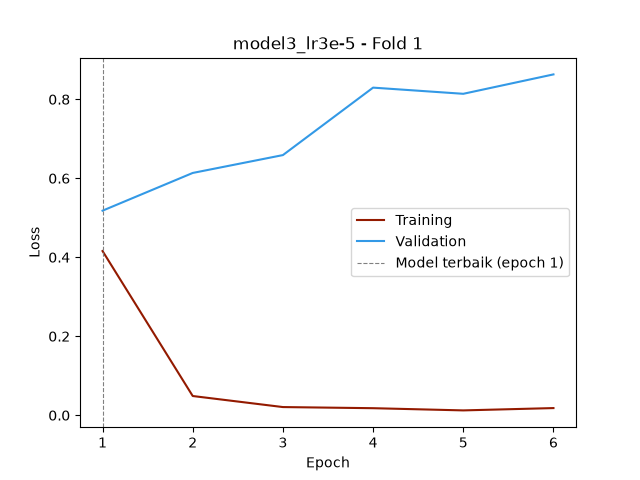
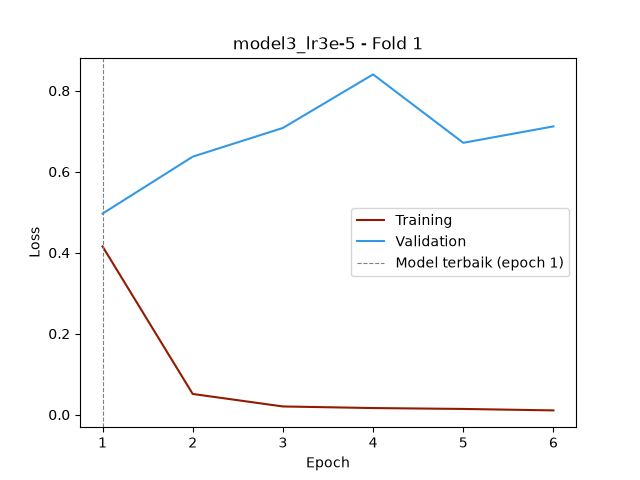
Perbaikan preprocessing (INTER_AREA, filter gambar kembar) dan pengaturan final Model 3

diff --git a/Utils/getData.py b/Utils/getData.py
@@ -8,10 +8,48 @@ from torch.utils.data import Dataset
 # Urutan kelas (alfabetis, sama dengan urutan folder). Indeks di list ini = label kelas.
 CLASSES = ['Chickenpox', 'Cowpox', 'HFMD', 'Healthy', 'Measles', 'Monkeypox']
 
+# Pasangan gambar asli yang identik / hampir identik, tetapi tercatat dengan ID pasien berbeda
+# (hasil pemeriksaan dataset: file sama persis, atau skor template matching >= 0.989).
+# Karena fold dibagi berdasarkan ID pasien, kembaran ini bisa terpisah ke Train dan Valid/Test (bocor).
+# Saat memuat Train, gambar yang kembarannya ada di Valid/Test pada fold yang sama dilewati,
+# beserta semua versi augmented-nya. Valid dan Test tidak diubah.
+# Catatan: CHP_38_01 (Chickenpox) sangat mirip dengan MKP_20_01/MKP_20_02 (Monkeypox), belum dipastikan.
+TWINS = [
+    ('CHP_26_01', 'CHP_62_01'),          # file identik
+    ('HEALTHY_21_01', 'HEALTHY_77_01'),
+    ('HFMD_96_01', 'HFMD_130_01'),
+    ('CWP_31_01', 'CWP_02_01'),
+]
+
 
 def get_dataset_root():
     # Unduh dataset dari Kaggle (hanya sekali, berikutnya memakai cache)
     return kagglehub.dataset_download("joydippaul/mpox-skin-lesion-dataset-version-20-msld-v20")
+
+
+def resize_image(image, img_size):
+    # Mengecilkan (tinggi dan lebar >= img_size): INTER_AREA, merata-ratakan area piksel
+    # sehingga tidak muncul aliasing (tepi bergerigi). Membesarkan: INTER_LINEAR (bawaan OpenCV).
+    h, w = image.shape[:2]
+    interpolation = cv.INTER_AREA if (h >= img_size and w >= img_size) else cv.INTER_LINEAR
+    return cv.resize(image, (img_size, img_size), interpolation=interpolation)
+
+
+def get_twins_to_skip(root, fold):
+    # Nama gambar Train (tanpa ekstensi) yang kembarannya ada di Valid/Test pada fold ini
+    held_out = set()
+    for split in ['Valid', 'Test']:
+        for class_name in CLASSES:
+            folder = os.path.join(root, 'Original Images', 'Original Images', 'FOLDS', f'fold{fold}', split, class_name)
+            held_out.update(os.path.splitext(f)[0] for f in os.listdir(folder))
+
+    skip = set()
+    for a, b in TWINS:
+        if a in held_out:
+            skip.add(b)
+        if b in held_out:
+            skip.add(a)
+    return skip - held_out  # kalau keduanya di Valid/Test, tidak ada yang perlu dilewati dari Train
 
 
 class getImageLabel(Dataset):
@@ -34,12 +72,23 @@ class getImageLabel(Dataset):
         if split == 'Train':
             folders.append(os.path.join(root, 'Augmented Images', 'Augmented Images', 'FOLDS_AUG', f'fold{fold}_AUG', 'Train'))
 
-        for folder in folders:
+        # Gambar kembar yang dilewati (hanya untuk Train)
+        skip = get_twins_to_skip(root, fold) if split == 'Train' else set()
+        self.skipped_twins = sorted(skip)
+
+        for k, folder in enumerate(folders):
+            is_augmented = (k == 1)  # folders[0] = asli, folders[1] = augmented (hanya Train)
             for i, class_name in enumerate(CLASSES):
                 class_folder = os.path.join(folder, class_name)
                 for image_name in sorted(os.listdir(class_folder)):
                     # folder augmented sudah memuat salinan gambar asli (_ORIGINAL), lewati supaya tidak dobel
                     if '_ORIGINAL' in image_name:
+                        continue
+
+                    # nama gambar asli: 'CHP_26_01.jpg' -> 'CHP_26_01', augmented 'CHP_26_01_3.jpg' -> 'CHP_26_01'
+                    stem = os.path.splitext(image_name)[0]
+                    base_name = stem.rsplit('_', 1)[0] if is_augmented else stem
+                    if base_name in skip:
                         continue
 
                     image = cv.imread(os.path.join(class_folder, image_name))
@@ -48,10 +97,14 @@ class getImageLabel(Dataset):
 
                     # OpenCV membaca BGR, ubah ke RGB, lalu resize
                     image = cv.cvtColor(image, cv.COLOR_BGR2RGB)
-                    image = cv.resize(image, (img_size, img_size))
+                    image = resize_image(image, img_size)
 
                     # disimpan sebagai uint8 (0-255) supaya hemat memori, dinormalisasi di __getitem__
                     self.dataset.append([image, to_one_hot[i]])
+
+        if self.skipped_twins:
+            print(f"  [getData] {split} fold {fold}: {len(self.skipped_twins)} gambar kembar dilewati "
+                  f"(beserta versi augmented-nya): {', '.join(self.skipped_twins)}")
 
     def __getitem__(self, item):
         feature, label = self.dataset[item]
@@ -66,6 +119,11 @@ if __name__ == "__main__":
     # Uji cepat: python Utils/getData.py
     root = get_dataset_root()
     print("Lokasi dataset:", root)
+
+    # gambar kembar yang dilewati dari Train di setiap fold (tanpa membaca gambar)
+    for fold in range(1, 6):
+        skip = sorted(get_twins_to_skip(root, fold))
+        print(f"Fold {fold}: kembar yang dilewati dari Train = {', '.join(skip) if skip else '-'}")
 
     for split in ['Train', 'Valid', 'Test']:
         data = getImageLabel(fold=1, split=split, img_size=100, root=root)

diff --git a/config.py b/config.py
@@ -27,59 +27,16 @@ CONFIGS = {
 
     # Model 2: SimpleCNN dengan parameter berbeda (diisi anggota Model 2)
 
-    # Model 3: ConvNeXt-Tiny pretrained ImageNet (transfer learning)
+    # Model 3 (FINAL): ConvNeXt-Tiny pretrained ImageNet (transfer learning)
+    # Pengaturan = percobaan A (model3_lr3e-5), terbaik di Valid fold 1 di antara percobaan A-D.
     "model3": {
         "model": ConvNeXtTiny,
         "model_args": {"output": 6, "pretrained": True},
         "img_size": 224,      # ukuran input bawaan model pretrained ImageNet
         "batch_size": 16,     # lebih kecil dari Model 1 karena model besar, supaya muat di VRAM 8 GB
-        "epoch": 20,
-        "lr": 0.0001,         # 10x lebih kecil dari Model 1 supaya bobot pretrained tidak rusak dan tidak cepat overfitting
+        "epoch": 10,          # epoch terbaik di percobaan selalu 1-2, jadi 10 sudah lebih dari cukup
+        "lr": 0.00003,        # hasil percobaan: 0.0001 terlalu cepat menghafal, 0.00003 terbaik
         "patience": 5,        # early stopping jika valid loss tidak membaik 5 epoch berturut-turut
     },
 
-    # Percobaan A untuk Model 3: sama dengan model3, hanya learning rate diturunkan
-    # (pada lr 0.0001 epoch terbaik sudah di epoch 1 dan train loss langsung hampir 0)
-    "model3_lr3e-5": {
-        "model": ConvNeXtTiny,
-        "model_args": {"output": 6, "pretrained": True},
-        "img_size": 224,
-        "batch_size": 16,
-        "epoch": 10,
-        "lr": 0.00003,        # 3x lebih kecil dari model3
-        "patience": 5,
-    },
-
-    # Percobaan D untuk Model 3: sama dengan model3_lr3e-5 + augmentasi acak di dalam model
-    "model3_aug": {
-        "model": ConvNeXtTiny,
-        "model_args": {"output": 6, "pretrained": True, "augment": True},
-        "img_size": 224,
-        "batch_size": 16,
-        "epoch": 10,
-        "lr": 0.00003,
-        "patience": 5,
-    },
-
-    # Percobaan C untuk Model 3: learning rate lebih kecil lagi
-    "model3_lr1e-5": {
-        "model": ConvNeXtTiny,
-        "model_args": {"output": 6, "pretrained": True},
-        "img_size": 224,
-        "batch_size": 16,
-        "epoch": 10,
-        "lr": 0.00001,        # 10x lebih kecil dari model3
-        "patience": 5,
-    },
-
-    # Percobaan B untuk Model 3: backbone dibekukan, hanya lapisan terakhir yang dilatih (feature extraction)
-    "model3_freeze": {
-        "model": ConvNeXtTiny,
-        "model_args": {"output": 6, "pretrained": True, "freeze_backbone": True},
-        "img_size": 224,
-        "batch_size": 16,
-        "epoch": 10,
-        "lr": 0.001,          # lebih besar karena hanya lapisan terakhir (baru, dari nol) yang dilatih
-        "patience": 5,
-    },
 }
